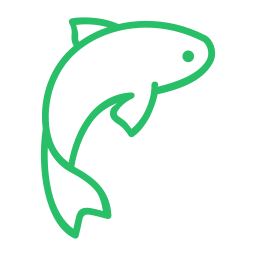
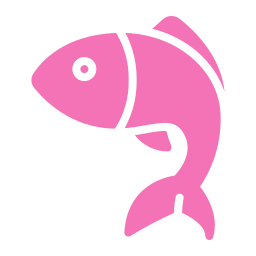
landing pg in progress

diff --git a/src/components/header.jsx b/src/components/header.jsx
@@ -9,23 +9,22 @@ import { UserButton } from '@clerk/clerk-react';
 const Header = () => {
     return (
         <>
-            <nav className='py-3 px-2  items-center flex justify-between text-white/80'>
-                <div className='flex justify-items-start gap-1'>
+            <nav className='py-3 px-2  items-center flex justify-between text-'>
+                <div className='flex justify-items-start gap-1 text-pink-400'>
                     <Link>
                         <img src="/koi-fish.png" className='h-10' alt="logo" />
                     </Link>
-                    <div className='mt-1 text-2xl'>Bettafish</div>
                 </div>
 
-                {/* <Button variant="outline"> Login </Button> */}
+                <Button variant="outline"> Login </Button>
 
-                    <SignedOut>
+                    {/* <SignedOut>
                         <SignInButton />
                     </SignedOut>
 
                     <SignedIn>
                         <UserButton />
-                    </SignedIn>
+                    </SignedIn> */}
             </nav>
         </>
     );

diff --git a/src/pages/landing.jsx b/src/pages/landing.jsx
@@ -2,7 +2,29 @@ import React from 'react'
 
 const LandingPage = () => {
     return (
-        <div>LandingPage</div>
+        <main className='flex flex-col gap-10 sm:gap-20 py-10 sm:py-20'>
+            <section className='text-center'>
+                <p className=' flex flex-col items-center text-6xl font-dark text-white mb-3 sm:text-7xl lg:text-8xl'>
+                    Reinovating the 
+                    <span className='italic'>Job Hunt</span> 
+                </p>
+                <h3 className='sm:mt-4 text-xs sm:text-xl'>
+                    Fishing for both jobs and candidates
+
+                    is now easier than ever with <span className='text-pink-400'>Bettafish</span></h3>
+            </section>
+            <div>
+                {/* {/* buttons  } --- search for a job and post job */}
+
+                {/* carousel */}
+            </div>
+
+            <section>
+                {/* cards */}
+            </section>
+
+            {/* accordion */}
+        </main>
     )
 }
 

diff --git a/src/App.css b/src/App.css
@@ -1,10 +1,13 @@
 .grid-background {
   position: fixed;
-  top:0;
-  left:0;
-  width:100%;
-  height:100%;
-  background-image: linear-gradient( 153.8deg,  rgba(0,0,0,1) 29.9%, #29be68 101.7% );
+  top: 0;
+  left: 0;
+  width: 100%;
+  height: 100%;
+  background-color: rgb(232, 153, 220);
+  background-color: #da66c8;
+  background-image: linear-gradient(33deg, #e899dc 0%, #fec9f1 59%, #ffcd70b8 100%);
+
   /* background-size: 50px 50px; */
   pointer-events: none;
   z-index: -1;
@@ -12,10 +15,10 @@
 
 .grid-background::before {
   content: "";
-  position:absolute;
-  top:0;
-  left:0;
-  width:100%;
-  height:100%;
-  background: radial-gradient(circle,transparent);
+  position: absolute;
+  top: 0;
+  left: 0;
+  width: 100%;
+  height: 100%;
+  background: radial-gradient(circle, transparent);
 }

diff --git a/src/layouts/app-layout.jsx b/src/layouts/app-layout.jsx
@@ -11,7 +11,7 @@ const AppLayout = () => {
                 <Outlet />
             </main>
             <div className='p-4 text-center mt-10 bg-transparent'>
-                <div> Icons made by <a href="https://www.flaticon.com/authors/cuputo" title="Cuputo"> Cuputo </a> from <a href="https://www.flaticon.com/" title="Flaticon">www.flaticon.com</a></div>
+            <div> Icons made by <a href="https://www.flaticon.com/authors/afif-fudin" title="afif fudin"> afif fudin </a> from <a href="https://www.flaticon.com/" title="Flaticon">www.flaticon.com'</a></div>
             </div>
         </div>
     );

diff --git a/src/main.jsx b/src/main.jsx
@@ -5,7 +5,7 @@ import ReactDOM from 'react-dom/client'
 import App from './App.jsx'
 import './index.css'
 import { ClerkProvider } from '@clerk/clerk-react'
-import { dark, shadesOfPurple } from '@clerk/themes'
+import { dark } from '@clerk/themes'
 
 // Import your Publishable Key
 const PUBLISHABLE_KEY = import.meta.env.VITE_CLERK_PUBLISHABLE_KEY
